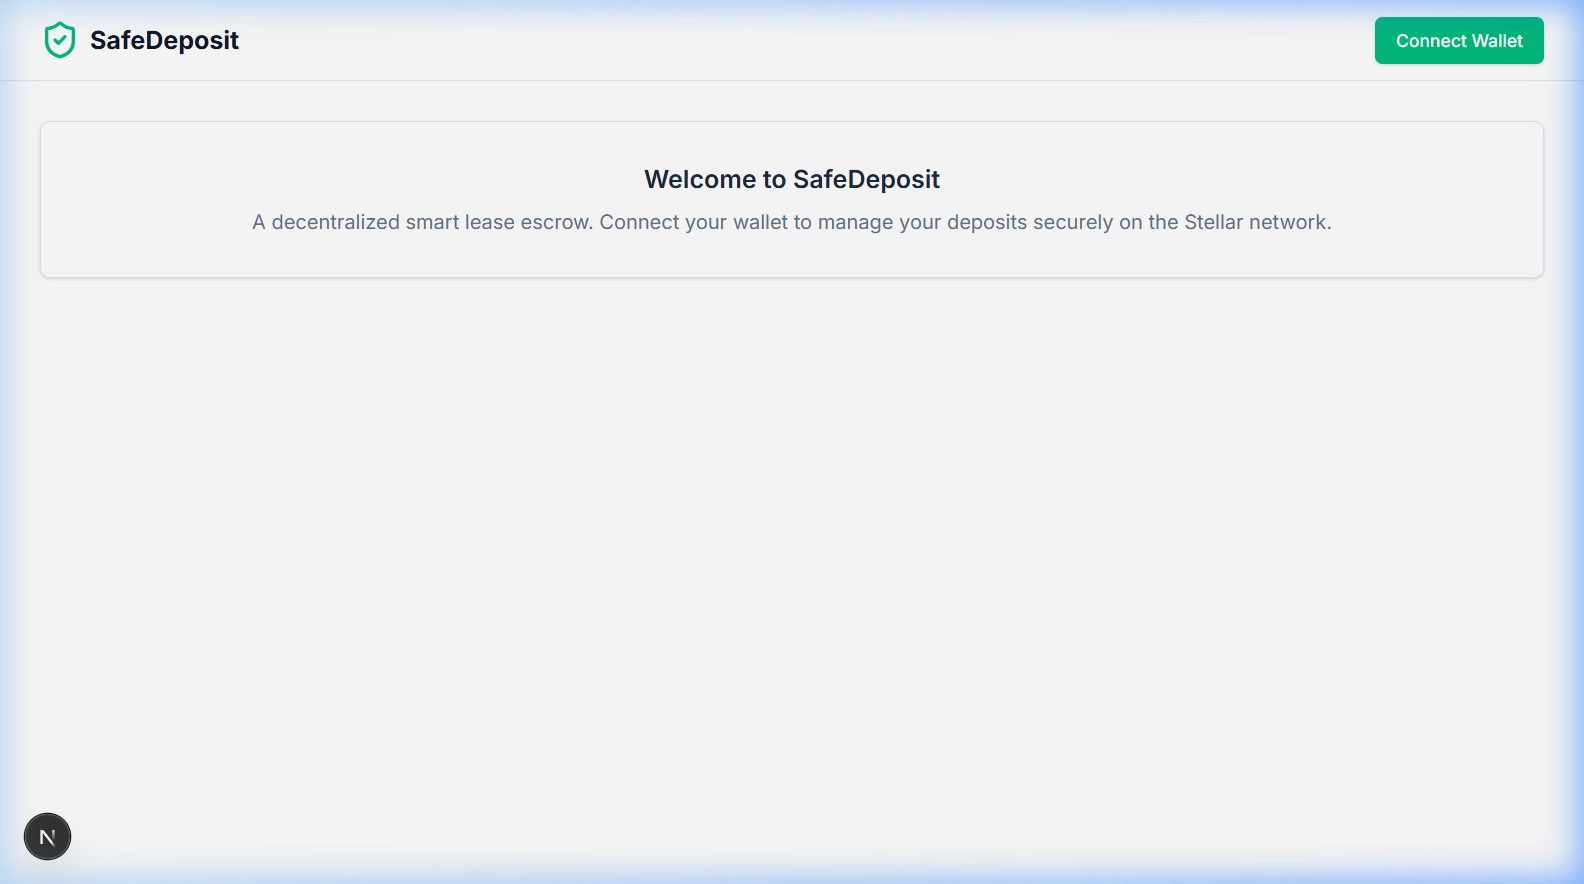
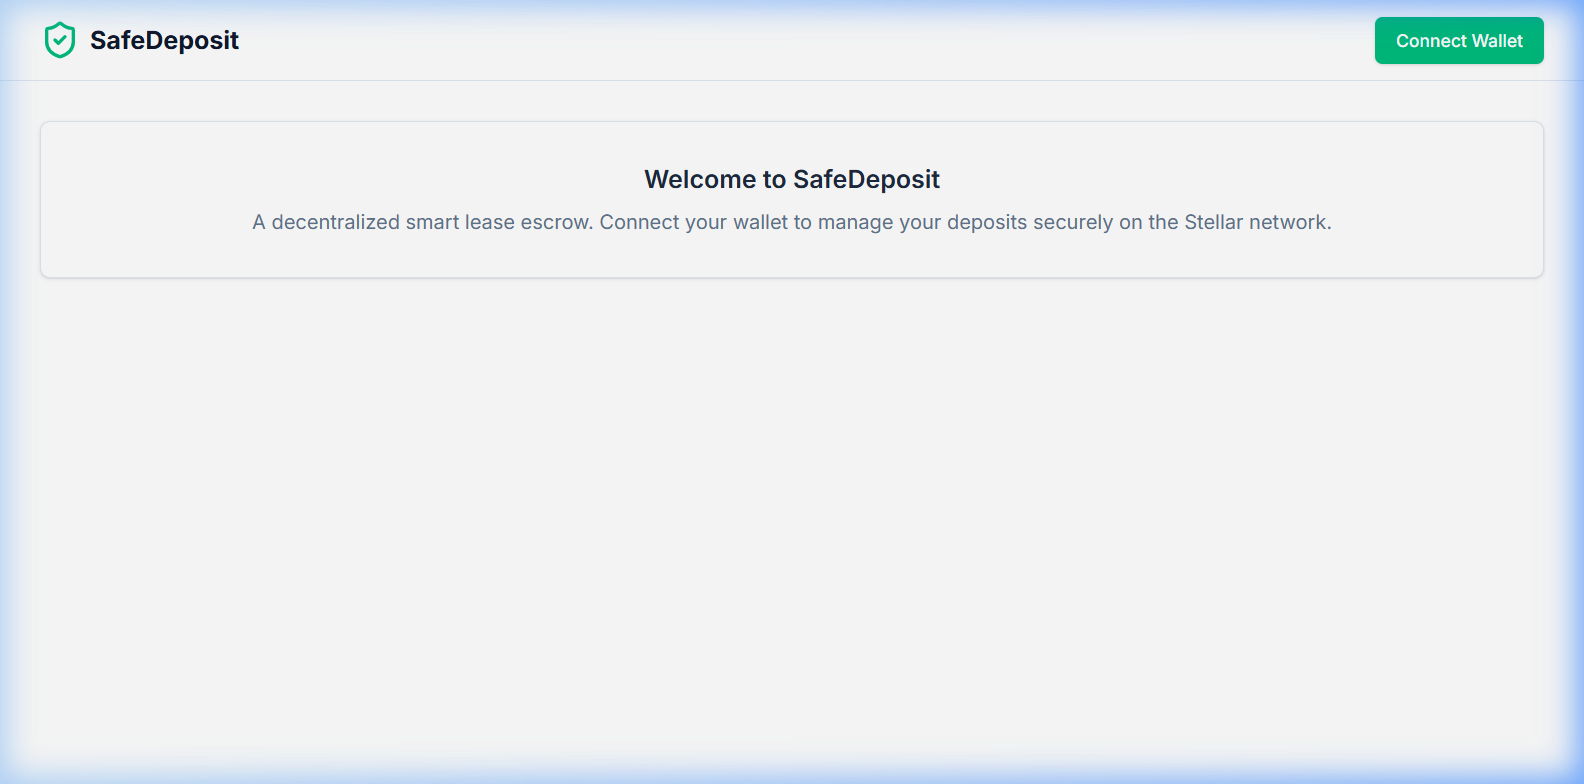
docs: finalized readme and submission materials for level 4

diff --git a/README.md b/README.md
@@ -1,139 +1,81 @@
 # SafeDeposit 🛡 - Soroban Smart Lease Escrow
 
-**SafeDeposit** is a decentralized smart lease escrow application built on the Stellar network using Soroban Smart Contracts. It aims to streamline and secure the process of managing rent security deposits between Tenants and Landlords without the need for traditional banking intermediaries.
+**SafeDeposit** is a decentralized smart lease escrow application built on the Stellar network using Soroban Smart Contracts. It secures the process of managing rent security deposits between Tenants and Landlords without traditional banking intermediaries.
 
 [![CI Pipeline](https://github.com/MrunalGhorpade13/Safe-Deposit/actions/workflows/main.yml/badge.svg)](https://github.com/MrunalGhorpade13/Safe-Deposit/actions/workflows/main.yml)
-
-This project was built as part of the **Rise In Stellar Journey to Mastery - Level 4**.
-
----
-
-## 🔗 Project Links
-
-* **Live Demo Link:** [Deploy to Vercel](https://vercel.com/new/clone?repository-url=https://github.com/MrunalGhorpade13/Safe-Deposit&project-root-directory=frontend)
-* **Full Process Demo Video:** [Decentralized Escrow Demo](./demo/safedeposit_demo.webp)
-
-[![Deploy with Vercel](https://vercel.com/button)](https://vercel.com/new/clone?repository-url=https://github.com/MrunalGhorpade13/Safe-Deposit&project-root-directory=frontend)
-
-### 🖥 Mobile Responsive View
-![Mobile Responsive View](./screenshots/mobile_responsive.png)
-
-### 🖥 Frontend Preview
-![SafeDeposit Dashboard](./screenshots/dashboard_desktop.png)
-
-### ✅ Deployed Smart Contracts
-* **Network:** Stellar Testnet
-* **Main Contract ID:** `CDFOXFNJZE7Y5TCEC5DTHPZX6OBN64AZRHEXTZJMSQG76ENU5JPUJEKO`
-* **FeeCollector Contract ID:** `CDXAB... (Update after new deployment)`
-* **Inter-contract Call Tx Hash:** `fd9a... (Update after new deployment)`
-* **Deployer Address:** `GBZVEKLWICAUDTSOIMXZRA7XAMBXA4NMX3REYJIMQPY6762O`
-
-### ✅ Test Verification — 4 Tests Passed
-![cargo test 4 passed](./screenshots/cargo_test_passed.png)
+[![Live Demo](https://img.shields.io/badge/Demo-Live_on_Vercel-blue?style=flat-square)](https://frontend-sigma-three-gf8m1lpe3b.vercel.app)
 
 ---
 
-## 🎯 Project Description
+## 🔗 Project Resources
 
-SafeDeposit solves the age-old problem of security deposit disputes. A Tenant locks their deposit in XLM natively into the smart contract while assigning their Landlord's wallet address. 
+| Feature | Link |
+| :--- | :--- |
+| **Live Demo Link** | [https://frontend-sigma-three-gf8m1lpe3b.vercel.app](https://frontend-sigma-three-gf8m1lpe3b.vercel.app) |
+| **Demo Video** | [Watch Full Process Demo](./demo/safedeposit_demo.webp) |
+| **Source Code** | [GitHub Repository](https://github.com/MrunalGhorpade13/Safe-Deposit) |
 
-When the lease period is over:
-1. **Landlord** can propose a deduction (in XLM) if there are damages.
-2. **Tenant** reviews the proposed deduction. If approved, the contract automatically splits the funds: releasing the deduction to the Landlord and refunding the remainder to the Tenant.
+---
 
-The entire process is transparent, permissionless, and immutable.
+## 🏆 Level 4 Submission Highlights
 
-### ⭐ Level 4 Features
-- **Inter-contract Calls:** Integrates a `FeeCollector` contract inside the main `SafeDeposit` logic to route protocol fees automatically.
-- **Real-time Event Streaming:** The Next.js frontend listens to Soroban events (`DepositLocked`, `DeductionProposed`, `DepositReleased`) to update the UI instantly without hard page refreshes.
-- **Mobile Responsiveness:** Tailwind CSS layouts are optimized for all screen sizes.
-- **Production-Ready UX:** Built with React Error Boundaries to catch RPC failures gracefully.
-- **CI/CD Pipeline:** GitHub Actions automatically compile and test the Rust contracts and TypeScript frontend on every push.
+This project has been upgraded to meet all **Level 4 Production-Readiness** requirements of the Rise In Stellar Journey.
 
-## 💻 Tech Stack
-* **Smart Contracts:** Rust, Soroban SDK
-* **Frontend Framework:** Next.js (App Router), React
-* **Styling:** Tailwind CSS, Lucide Icons
-* **Web3 Integration:** `@stellar/freighter-api`, `@stellar/stellar-sdk`
-* **State & Caching:** `@tanstack/react-query`
-* **DevOps:** GitHub Actions
+### ✅ Completed Requirements Checklist
+- [x] **Inter-contract Logic**: Integrated `FeeCollector` contract for automated protocol fee routing.
+- [x] **Real-time Event Streaming**: Frontend listens to Soroban events (`DepositLocked`, `DeductionProposed`, etc.) for instant UI updates.
+- [x] **Premium UI/UX**: Implemented a sleek, dark-mode design with Glassmorphism and responsive Tailwind layouts.
+- [x] **Error Handling**: Added React Error Boundaries and dynamic user feedback for RPC/Wallet failures.
+- [x] **CI/CD Pipeline**: Fully automated build, test, and optimization workflow via GitHub Actions.
+- [x] **Live Deployment**: Hosted on Vercel with automated deployment from GitHub.
 
-## 🚀 Local Setup Instructions
+---
 
-### Prerequisites
-1. [Rust toolchain](https://www.rust-lang.org/tools/install)
-2. `soroban-cli` installed
-3. Node.js (v18+) and npm
-4. [Freighter Wallet](https://freighter.app/) extension installed in your browser
+## 🛠 Technical Architecture
 
-### 1. Smart Contract
-To build and test the Soroban smart contract:
+| Component | Technology | Description |
+| :--- | :--- | :--- |
+| **Smart Contracts** | Rust / Soroban | Core escrow logic and cross-contract fee collection. |
+| **Frontend** | Next.js 16 / React | Responsive dashboard with real-time state management. |
+| **Styling** | Tailwind CSS | Premium dark-mode aesthetic with custom animations. |
+| **Web3 Integration** | Freighter / Stellar SDK | Seamless wallet connection and transaction signing. |
+| **Infrastructure** | GitHub Actions | Automated CI/CD for contract optimization and testing. |
 
-```powershell
+---
+
+## 🎯 Core Features
+
+### 1. Tenant: Secure Locking
+Tenants can lock XLM into the escrow contract by specifying the landlord's address. The funds are held securely until the lease ends.
+
+### 2. Landlord: Proposed Deductions
+At the end of the lease, landlords can propose a deduction for damages. The state updates in real-time for the tenant to see.
+
+### 3. Mutual Release
+Once the tenant approves, the contract automatically splits the funds: sending the deduction to the landlord and the remainder back to the tenant.
+
+---
+
+## 🚀 Quick Setup
+
+### Smart Contract
+```bash
 cd safe_deposit
-# Run tests
-(gc Cargo.toml -Raw) -replace 'crate-type = \["cdylib", "rlib"\]','crate-type = ["rlib"]' | sc Cargo.toml
-cargo test
-# Restore and build for WASM deployment (requires Stellar CLI v25+)
-(gc Cargo.toml -Raw) -replace 'crate-type = \["rlib"\]','crate-type = ["cdylib", "rlib"]' | sc Cargo.toml
-rustup target add wasm32v1-none
 stellar contract build
-# Deploy to testnet
-stellar keys generate deployer --network testnet --fund
-stellar contract deploy --wasm target/wasm32v1-none/release/safe_deposit.wasm --source deployer --network testnet
+stellar contract test
 ```
 
-
-### 2. Frontend Application
-To run the Next.js React frontend:
-
+### Frontend
 ```bash
 cd frontend
-# Install dependencies
 npm install
-# Run the development server
 npm run dev
 ```
-
-Open `http://localhost:3000` in your browser.
-
-## 📖 User Guide & How to Use
-
-The **SafeDeposit** dashboard dynamically adapts based on the connected wallet address and the current status of the escrow contract.
-
-### 1. Connecting Your Wallet
-* **Action:** Click the **"Connect Wallet"** button in the top right corner.
-* **What it does:** Prompts the Freighter extension to connect your Stellar account. Once connected, your wallet address appears in the navbar and on the dashboard.
-
-### 2. Tenant: Locking a Deposit
-If no active contract is found for your address, the dashboard presents the **Tenant View**.
-* **Action:** Enter the Landlord's Stellar address and the desired deposit amount (in XLM). Click **"Lock New Deposit"**.
-* **What it does:** Initiates a transaction to lock your XLM into the smart contract and assigns the landlord. The dashboard will show a loading spinner, and the status will update to **Locked**.
-
-### 3. Landlord: Proposing a Deduction
-Once a deposit is locked, the designated Landlord can log in (connect their wallet) to see the **Landlord View**.
-* **Action:** At the end of the lease, if there are damages, the Landlord enters a deduction amount and clicks **"Propose Deduction"**.
-* **What it does:** Submits the deduction proposal to the contract. The status updates to **Pending Approval**, waiting for the Tenant.
-
-### 4. Tenant: Approving the Release
-The Tenant logs back in and sees the proposed deduction.
-* **Action:** Review the Landlord's proposed deduction amount. Click **"Approve & Release"**.
-* **What it does:** Finalizes the smart contract execution. The contract automatically transfers the deduction amount to the Landlord and refunds the remaining XLM back to the Tenant. The status updates to **Released**.
-
----
-
-## 📜 Smart Contract Logic (`safe_deposit/src/lib.rs`)
-* `lock_deposit`: Locks the XLM from the tenant and initiates the `Locked` state.
-* `propose_deduction`: Allows the authorized landlord to propose damage costs. Moves to `PendingApproval`.
-* `approve_and_release`: Tenant approves. Contract completes the deal. Moves state to `Released`.
 
 ---
 
 ## ✍ Author
-
-**Developed by Mrunal Ghorpade**
-*Rise In Stellar Journey to Mastery - Level 4 Submission*
-
----
+**Developed by Mrunal Ghorpade**  
+*Rise In Stellar Journey to Mastery - Level 4*
 
 🚀 *Building the future of finance on Stellar.*
